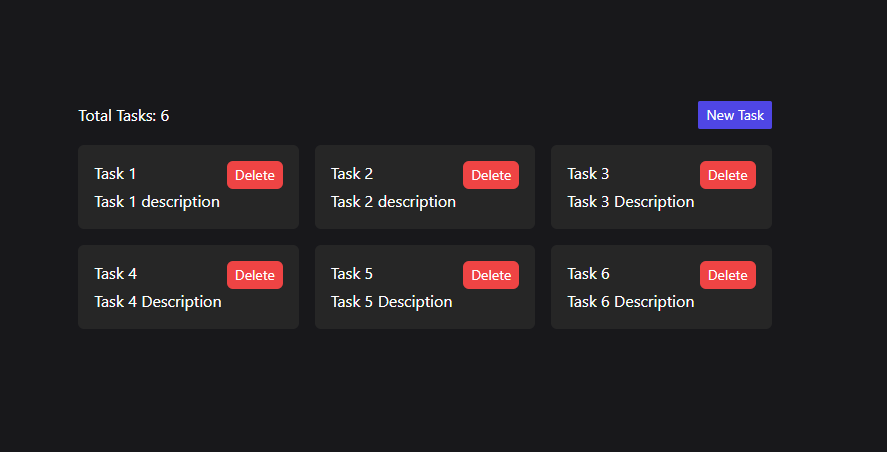
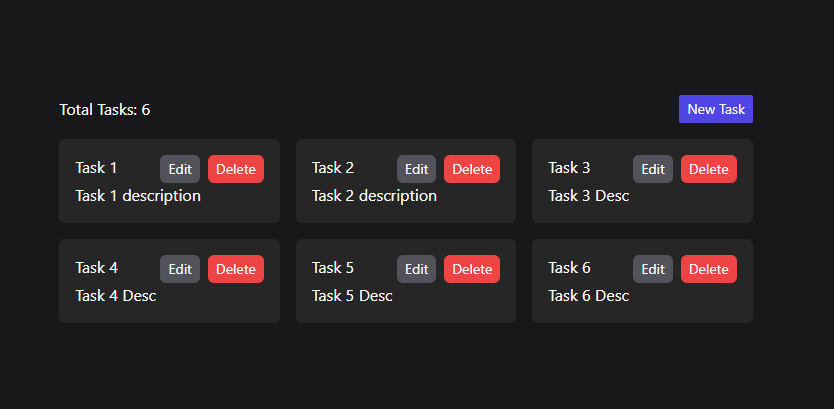
added edit and toast notif

diff --git a/src/components/TaskForm.tsx b/src/components/TaskForm.tsx
@@ -1,10 +1,23 @@
-import { useState } from "react";
-import { useDispatch } from "react-redux";
-import { addTask } from "../features/taskSlice";
+import { useState, useEffect } from "react";
+import { useDispatch, useSelector } from "react-redux";
+import { addTask, updateTask } from "../features/taskSlice";
 import { v4 as uuid } from "uuid";
 import { useNavigate, useParams } from "react-router-dom";
+import { ToastContainer, toast } from "react-toastify";
+import "react-toastify/dist/ReactToastify.css";
+import React from "react";
+
+const customId = "custom-id-yes";
 
 function TasksForm() {
+  const toastId = React.useRef(null);
+
+  const notify = () => {
+    toast("Task Not Found!!!", {
+      toastId: customId,
+    });
+  };
+
   const [task, setTask] = useState({
     title: "",
     description: "",
@@ -12,6 +25,8 @@ function TasksForm() {
 
   const dispatch = useDispatch();
   const navigate = useNavigate();
+  const params = useParams();
+  const tasks = useSelector((state: any) => state.tasks);
 
   const handleChanges = (e: { target: { name: any; value: any } }) => {
     setTask({
@@ -22,12 +37,15 @@ function TasksForm() {
 
   const handleSubmit = (e: { preventDefault: () => void }) => {
     e.preventDefault();
+    if(params.id){
+      dispatch(updateTask(task))
+    }else{
     dispatch(
       addTask({
         ...task,
         id: uuid(),
       })
-    );
+    )};
     navigate("/");
   };
 
@@ -35,34 +53,54 @@ function TasksForm() {
     navigate("/");
   };
 
+  useEffect(() => {
+    if (params.id && Object(tasks).find((task: any) => task.id === params.id)) {
+      setTask(Object(tasks).find((task: any) => task.id === params.id));
+    }
+  },[]);
+
   return (
-    <form onSubmit={handleSubmit} className="bg-zinc-800 max-w-sm p-4 w-full">
-      <label htmlFor="title" className="block text-sm font-bold mb-1">
-        Task:
-      </label>
-      <input
-        name="title"
-        type="text"
-        placeholder="Title"
-        onChange={handleChanges}
-        className="w-full p-2 rounded-md bg-zinc-600 mb-2"
-      ></input>
-      <label htmlFor="description" className="block text-sm font-bold mb-1">
-        Description
-      </label>
-      <textarea
-        name="description"
-        placeholder="Description"
-        onChange={handleChanges}
-        className="w-full p-2 rounded-md bg-zinc-600 mb-2"
-      ></textarea>
-      <div className="flex justify-between">
-        <button className="bg-indigo-600 px-2 py-1 rounded-md" onClick={handleBack}>
-          Back
-        </button>
-        <button className="bg-green-600 px-2 py-1 rounded-md">Save</button>
-      </div>
-    </form>
+    <>
+      <ToastContainer />
+      {(() => {
+        if (!Object(tasks).find((task: any) => task.id === params.id) && params.id) {
+          notify();
+        }
+      })()}
+      <form onSubmit={handleSubmit} className="bg-zinc-800 max-w-sm p-4 w-full">
+        <label htmlFor="title" className="block text-sm font-bold mb-1">
+          Task:
+        </label>
+        <input
+          name="title"
+          type="text"
+          placeholder="Title"
+          value={task.title}
+          onChange={handleChanges}
+          className="w-full p-2 rounded-md bg-zinc-600 mb-2"
+          
+        ></input>
+        <label htmlFor="description" className="block text-sm font-bold mb-1">
+          Description
+        </label>
+        <textarea
+          name="description"
+          placeholder="Description"
+          onChange={handleChanges}
+          className="w-full p-2 rounded-md bg-zinc-600 mb-2"
+          value={task.description}
+        ></textarea>
+        <div className="flex justify-between">
+          <button
+            className="bg-indigo-600 px-2 py-1 rounded-md"
+            onClick={handleBack}
+          >
+            Back
+          </button>
+          <button className="bg-green-600 px-2 py-1 rounded-md">Save</button>
+        </div>
+      </form>
+    </>
   );
 }
 

diff --git a/src/components/TasksList.tsx b/src/components/TasksList.tsx
@@ -10,8 +10,6 @@ function TasksList() {
     dispatch(deleteTask(id));
   };
 
-  
-
   return (
     <div className="w-4/6">
       <header className="flex justify-between items-center py-4">
@@ -24,8 +22,9 @@ function TasksList() {
         <div key={task.id} className="bg-neutral-800 p-4 rounded-md">
           <header className="flex justify-between">
           <h3>{task.title}</h3>
-          <div className="flex">
-          <button onClick={() => handleDelete(task.id)} className="bg-red-500 px-2 py-1 rounded-md text-sm self-center">Delete</button>
+          <div className="flex gap-x-2">
+          <Link to={`/edit/${task.id}`} className="bg-zinc-600 px-2 py-1 rounded-md text-sm">Edit</Link>
+          <button onClick={() => handleDelete(task.id)} className="bg-red-500 px-2 py-1 rounded-md text-sm">Delete</button>
           </div>
           </header>
           <p>{task.description}</p>

diff --git a/src/features/taskSlice.tsx b/src/features/taskSlice.tsx
@@ -27,9 +27,19 @@ export const taskSlice = createSlice({
        if(taskFound){
         state.splice(state.indexOf(taskFound),1)
        }
+    },
+    updateTask: (state, action)=>{
+        const {id, title,description} = action.payload
+        const foundtask=state.find(task=> task.id==id)
+        if(foundtask){
+            foundtask.id==id;
+            foundtask.title=title;
+            foundtask.description=description;
+            console.log("Updated")
+        }
     }
   },
 });
 
-export const {addTask, deleteTask} = taskSlice.actions;
+export const {addTask, deleteTask, updateTask} = taskSlice.actions;
 export default taskSlice.reducer;
